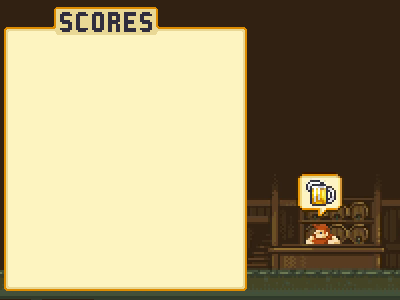
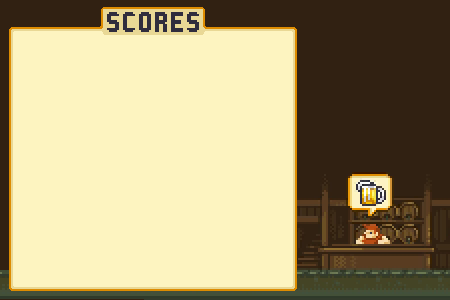
working scrollbar

diff --git a/clientH.py b/clientH.py
@@ -17,30 +17,25 @@ class Client(ConnectionListener):
         self.tableWindow = Tk()
         self.tableWindow.title("Witcher Tornament")
         self.tableWindow.protocol("WM_DELETE_WINDOW", self.quit)
-        self.tableWindow.wm_maxsize(400, 300)
-        self.tableWindow.wm_minsize(400, 300)
+        self.tableWindow.wm_maxsize(450, 300)
+        self.tableWindow.wm_minsize(450, 300)
         self.tableWindow.withdraw()
 
         self.background_image = PhotoImage(file="assets/background.png")
         self.canvas = Canvas(self.tableWindow)
-        self.canvas.create_image(200, 150, image=self.background_image)
+        self.canvas.create_image(225, 150, image=self.background_image)
 
         #SCROLL PART
-        scroll_canvas = Canvas(self.canvas, width=230, height=250, bg="#fef4c1")
+        scroll_canvas = Canvas(self.canvas, width=280, height=250, bg="#fef4c1")
         scrollbar = Scrollbar(self.canvas, orient="vertical", command=scroll_canvas.yview)
-        self.playersFrame = Frame(scroll_canvas, bg="#fef4c1")
 
-        self.playersFrame.bind(
-            "<Configure>",
-            lambda e: scroll_canvas.configure(
-                scrollregion=scroll_canvas.bbox("all")
-            )
-        )
+        self.playersFrame = Frame(scroll_canvas, bg="#fef4c1")
+        self.playersFrame.bind("<Configure>", lambda e: scroll_canvas.configure(scrollregion=scroll_canvas.bbox("all")))
 
         scroll_canvas.create_window((0, 0), window=self.playersFrame, anchor="nw")
         scroll_canvas.configure(yscrollcommand=scrollbar.set)
 
-        scroll_canvas.place(x=7, y=35)
+        scroll_canvas.place(x=11, y=35)
         scrollbar.pack(side="right", fill="y")
 
         self.canvas.pack(padx=0, pady=0, expand=True, fill=BOTH)
@@ -52,8 +47,8 @@ class Client(ConnectionListener):
 
         # GET A USERNAME
         nickname = ""
-        while nickname in [None, ""]:
-            nickname = simpledialog.askstring("Pseudo", "Entrez votre pseudo : ").rstrip("\n")
+        while nickname in [None, ""] or len(nickname) > 12:
+            nickname = simpledialog.askstring("Pseudo", "Entrez votre pseudo : ")
         self.nickname = nickname
 
         self.tableWindow.title(f"Witcher Tornament - {self.nickname}")
@@ -171,15 +166,13 @@ class Client(ConnectionListener):
         for child in self.playersFrame.winfo_children():
             child.destroy()
 
-        playersList = [("mmmmmmm", False, 1000)] * 20
-
         print("J'ai reçu les joueus :")
         for i in range(len(playersList)):
             name, free, rating = playersList[i]
             print(f"\t {name}, {free}")
             Label(self.playersFrame, text=f"{i+1} - {rating}", bg="#fef4c1").grid(row=i, column=0, padx=(0, 0), pady=(10, 0))
             Label(self.playersFrame, text=name, bg="#fef4c1").grid(row=i, column=1, padx=(0, 0), pady=(10, 0))
-            Label(self.playersFrame, text=" libre !" if free else " en  match...", fg="green" if free else "red", bg="#fef4c1").grid(row=i, column=2, padx=(5, 0), pady=(10, 0))
+            Label(self.playersFrame, text=" libre !" if free else " en  match...", fg="green" if free else "red", bg="#fef4c1").grid(row=i, column=2, padx=(0, 0), pady=(10, 0))
             if free == True and name != self.nickname:
                 print(f"Je met un bouton à {name}")
                 nickname = name
